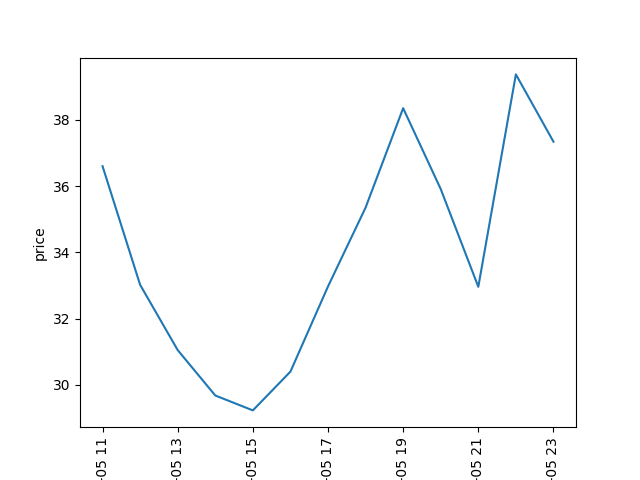
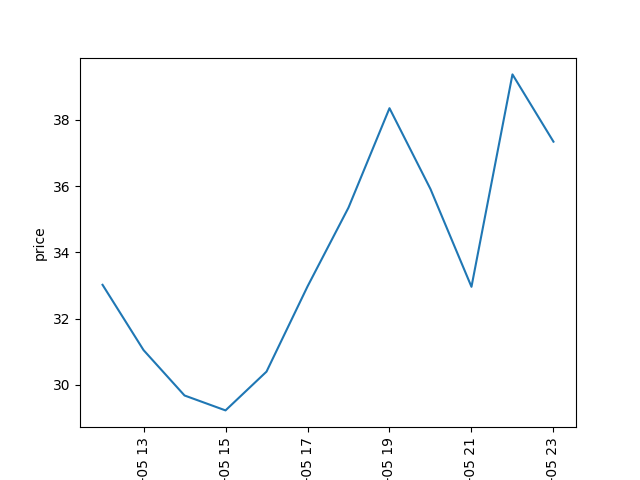
latest

diff --git a/index.html b/index.html
@@ -2,16 +2,15 @@
 <img src="./day.png" </img>
 <br>
 now()	<br>
-2019-07-05 10:02:03	<br>
+2019-07-05 11:02:03	<br>
 settime	dayhour	sum3h	<br>
-4	2019-07-05 14:00:00	89.31	<br>
-3	2019-07-05 13:00:00	89.96	<br>
-5	2019-07-05 15:00:00	92.60	<br>
-2	2019-07-05 12:00:00	93.75	<br>
-6	2019-07-05 16:00:00	98.72	<br>
-1	2019-07-05 11:00:00	100.67	<br>
-7	2019-07-05 17:00:00	106.67	<br>
-9	2019-07-05 19:00:00	107.22	<br>
-10	2019-07-05 20:00:00	108.24	<br>
-8	2019-07-05 18:00:00	109.61	<br>
-11	2019-07-05 21:00:00	109.67	<br>
+3	2019-07-05 14:00:00	89.31	<br>
+2	2019-07-05 13:00:00	89.96	<br>
+4	2019-07-05 15:00:00	92.60	<br>
+1	2019-07-05 12:00:00	93.75	<br>
+5	2019-07-05 16:00:00	98.72	<br>
+6	2019-07-05 17:00:00	106.67	<br>
+8	2019-07-05 19:00:00	107.22	<br>
+9	2019-07-05 20:00:00	108.24	<br>
+7	2019-07-05 18:00:00	109.61	<br>
+10	2019-07-05 21:00:00	109.67	<br>
